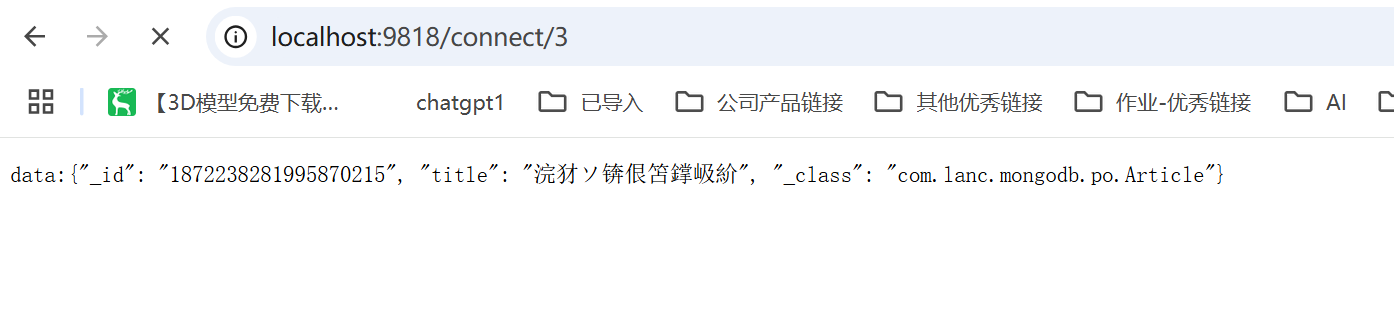
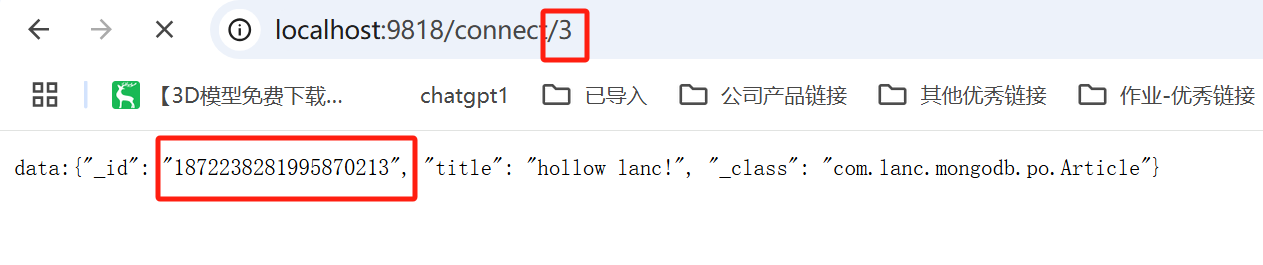
feat:添加分布式锁，保证多个节点时消息重复发送到客户端。

Changed region(s): [[0.0, 0.483, 1.0, 0.7849], [0.0, 0.2717, 1.0, 0.4226], [0.0, 0.0302, 0.4941, 0.2415]]

diff --git a/ddd-mongodb/src/main/java/com/lanc/mongodb/listener/MyDatabaseArticleChangeListener.java b/ddd-mongodb/src/main/java/com/lanc/mongodb/listener/MyDatabaseArticleChangeListener.java
@@ -5,6 +5,8 @@ import com.mongodb.client.model.changestream.ChangeStreamDocument;
 import com.mongodb.client.model.changestream.OperationType;
 import lombok.extern.slf4j.Slf4j;
 import org.bson.Document;
+import org.redisson.api.RLock;
+import org.redisson.api.RedissonClient;
 import org.springframework.beans.factory.annotation.Autowired;
 import org.springframework.data.mongodb.core.MongoTemplate;
 import org.springframework.stereotype.Component;
@@ -12,9 +14,12 @@ import org.springframework.stereotype.Component;
 import javax.annotation.PostConstruct;
 import java.util.concurrent.ExecutorService;
 import java.util.concurrent.Executors;
+import java.util.concurrent.TimeUnit;
 
 /**
  * 监听myDatabase数据库article的变化
+ *
+ * @author Administrator
  */
 @Slf4j
 @Component
@@ -25,6 +30,9 @@ public class MyDatabaseArticleChangeListener {
 
     @Autowired
     private SseManager sseManager;
+
+    @Autowired
+    private RedissonClient redisson;
 
     private final ExecutorService executorService = Executors.newSingleThreadExecutor();
 
@@ -39,27 +47,66 @@ public class MyDatabaseArticleChangeListener {
             mongoTemplate.getMongoDatabaseFactory().getMongoDatabase("myDatabase")
                     .getCollection("article")
                     .watch()
-                    .forEach((ChangeStreamDocument<Document> change) -> {
-                        OperationType operationType = change.getOperationType();
-                        Document fullDocument = change.getFullDocument();
-
-                        switch (operationType) {
-                            case INSERT:
-                                log.info("Document inserted: {}", fullDocument.toJson());
-                                sseManager.sendMessage(fullDocument.toJson());
-                                break;
-                            case UPDATE:
-                                log.info("Document updated: {}", fullDocument.toJson());
-                                break;
-                            case DELETE:
-                                log.info("Document deleted: {}", change.getDocumentKey().toJson());
-                                break;
-                            default:
-                                log.warn("Other operation detected: {}", operationType);
-                        }
-                    });
+                    .forEach(this::handle);
         } catch (Exception e) {
             log.error("Error while listening to changes in MongoDB: ", e);
+        }
+    }
+
+    private void handle(ChangeStreamDocument<Document> change) {
+        OperationType operationType = change.getOperationType();
+        Document fullDocument = change.getFullDocument();
+        switch (operationType) {
+            case INSERT:
+                log.info("Document inserted: {}", fullDocument.toJson());
+                insertHandle(fullDocument);
+                break;
+            case UPDATE:
+                log.info("Document updated: {}", fullDocument.toJson());
+                break;
+            case DELETE:
+                log.info("Document deleted: {}", change.getDocumentKey().toJson());
+                break;
+            default:
+                log.warn("Other operation detected: {}", operationType);
+        }
+    }
+
+    /**
+     * 通过分布式锁，保证多个节点同时监听时候，只发送一次SSE消息
+     *
+     * @param fullDocument 新增的文档
+     */
+    private void insertHandle(Document fullDocument) {
+        String lockKey = "lock:sse-processed:" + fullDocument.get("_id").toString();
+        RLock lock = redisson.getLock(lockKey);
+
+        try {
+            // 尝试获取分布式锁，设置锁的过期时间为 5 秒
+            boolean isLocked = lock.tryLock(1, 5, TimeUnit.SECONDS);
+            if (!isLocked) {
+                log.info("Another node is processing the message for document: {}", fullDocument.get("_id"));
+                return;
+            }
+
+            // 再次检查 Redis 是否已处理
+            String processedKey = "sse-processed:" + fullDocument.get("_id").toString();
+            if (redisson.getBucket(processedKey).isExists()) {
+                log.info("Message already processed for document: {}", fullDocument.get("_id"));
+                return;
+            }
+
+            // 标记消息已处理，并发送 SSE 消息
+            redisson.getBucket(processedKey).set("1", 10, TimeUnit.SECONDS);
+            log.info("send SSE：{}", fullDocument.toJson());
+            sseManager.sendMessage(fullDocument.toJson());
+        } catch (InterruptedException e) {
+            log.error("Failed to acquire lock for document: {}", fullDocument.get("_id"), e);
+        } finally {
+            // 释放锁
+            if (lock.isHeldByCurrentThread()) {
+                lock.unlock();
+            }
         }
     }
 }

diff --git a/local-domain/src/main/java/com/lanc/business/config/RedissonConfig.java b/local-domain/src/main/java/com/lanc/business/config/RedissonConfig.java
@@ -1,0 +1,83 @@
+package com.lanc.business.config;
+
+import lombok.Data;
+import lombok.extern.slf4j.Slf4j;
+import org.redisson.Redisson;
+import org.redisson.api.RedissonClient;
+import org.redisson.client.codec.StringCodec;
+import org.redisson.config.Config;
+import org.redisson.config.TransportMode;
+import org.springframework.boot.autoconfigure.condition.ConditionalOnProperty;
+import org.springframework.context.annotation.Bean;
+import org.springframework.context.annotation.Configuration;
+
+import javax.annotation.Resource;
+import java.util.Set;
+
+/**
+ * @author Administrator
+ */
+@Slf4j
+@Data
+@Configuration
+public class RedissonConfig {
+
+    @Resource
+    private RedissonProperties redissonProperties;
+
+    /**
+     * redisson 单机配置
+     *
+     * @return {@link RedissonClient}单机实例
+     */
+    @ConditionalOnProperty(prefix = "redisson.single", name = "enabled", havingValue = "true")
+    @Bean(destroyMethod = "shutdown", value = "singleRedissonClient")
+    public RedissonClient singleRedissonClient() {
+        log.info("正在初始化singleRedissonClient");
+        // 创建配置
+        Config config = new Config();
+        // 编码
+        config.setCodec(StringCodec.INSTANCE);
+        // 使用NIO传输模式
+        config.setTransportMode(TransportMode.NIO);
+
+        RedissonProperties.SingleRedissonConfigProperties single = redissonProperties.getSingle();
+        // 单机版服务配置
+        config.useSingleServer()
+                .setPassword(single.getPassword())
+                .setAddress(single.getAddress())
+                .setDatabase(single.getDatabase());
+
+        // 创建客户端
+        return Redisson.create(config);
+    }
+
+    /**
+     * redisson 集群配置
+     *
+     * @return {@link RedissonClient}集群实例
+     */
+    @ConditionalOnProperty(prefix = "redisson.cluster", name = "enabled", havingValue = "true")
+    @Bean(destroyMethod = "shutdown", value = "clusterRedissonClient")
+    public RedissonClient clusterRedissonClient() {
+        log.info("正在初始化clusterRedissonClient");
+        RedissonProperties.ClusterRedissonConfigProperties cluster = redissonProperties.getCluster();
+        Set<String> addresses = cluster.getAddresses();
+        if (addresses == null || addresses.isEmpty()) {
+            throw new RuntimeException("请检查redisson.cluster的配置");
+        }
+
+        Config config = new Config();
+        // 对象编码选择纯字符串编码
+        config.setCodec(StringCodec.INSTANCE);
+        config.useClusterServers()
+                // 节点地址
+                .addNodeAddress(addresses.toArray(new String[0]))
+                // 设置密码
+                .setPassword(cluster.getPassword())
+                // redis连接心跳检测，防止一段时间过后，与redis的连接断开
+                .setPingConnectionInterval(cluster.getPingConnectionInterval());
+
+        return Redisson.create(config);
+    }
+}

diff --git a/local-domain/src/main/java/com/lanc/business/config/RedissonProperties.java b/local-domain/src/main/java/com/lanc/business/config/RedissonProperties.java
@@ -1,0 +1,66 @@
+package com.lanc.business.config;
+
+import lombok.Data;
+import lombok.extern.slf4j.Slf4j;
+import org.springframework.boot.context.properties.ConfigurationProperties;
+import org.springframework.stereotype.Component;
+
+import javax.annotation.PostConstruct;
+import java.util.Set;
+
+/**
+ * @author Administrator
+ */
+@Slf4j
+@Data
+@Component
+@ConfigurationProperties(RedissonProperties.PREFIX)
+public class RedissonProperties {
+
+    public static final String PREFIX = "redisson";
+
+    private SingleRedissonConfigProperties single;
+    private ClusterRedissonConfigProperties cluster;
+
+    /**
+     * 单机redisson配置属性
+     */
+    @Data
+    public static class SingleRedissonConfigProperties {
+        private Integer database = 0;
+        private String address;
+        private String password;
+        private Boolean enabled;
+    }
+
+    /**
+     * 集群redisson配置属性
+     */
+    @Data
+    public static class ClusterRedissonConfigProperties {
+        private Set<String> addresses;
+        private String password;
+        private Integer pingConnectionInterval;
+        private Boolean enabled;
+    }
+
+    @PostConstruct
+    private void initLog() {
+        log.info("单机版初始化：{}", single);
+        log.info("集群版初始化：{}", cluster);
+        checkConfig();
+    }
+
+    private void checkConfig() {
+        if (single != null) {
+            String address = single.getAddress();
+            if (address == null) {
+                throw new RuntimeException("请检查配置属性 redisson.single.address");
+            }
+            String password = single.getPassword();
+            if (password == null) {
+                throw new RuntimeException("请检查配置属性 redisson.single.password");
+            }
+        }
+    }
+}

diff --git a/local-start/src/main/resources/mongodb-doc/README.md b/local-start/src/main/resources/mongodb-doc/README.md
@@ -1,10 +1,27 @@
 ```shell
+# 删除容器和卷
 docker-compose down
 docker volume prune
 docker volume rm root_mongo1-data root_mongo2-data root_mongo3-data
+
+# 创建目录
 mkdir mongo
 cd mongo/
 vim docker-compose.yml
+
+# 创建log和data目录
+mkdir -p /root/mongo/mongo1-logs
+mkdir -p /root/mongo/mongo1-data
+mkdir -p /root/mongo/mongo2-logs
+mkdir -p /root/mongo/mongo2-data
+mkdir -p /root/mongo/mongo3-logs
+mkdir -p /root/mongo/mongo3-data
+chmod +x /root/mongo/mongo1-logs
+chmod +x /root/mongo/mongo1-data
+chmod +x /root/mongo/mongo2-logs
+chmod +x /root/mongo/mongo2-data
+chmod +x /root/mongo/mongo3-logs
+chmod +x /root/mongo/mongo3-data
 ```
 
 docker-compose.yml
@@ -65,29 +82,62 @@ services:
 
 volumes:
   mongo1-data:
+    driver: local
+    driver_opts:
+      type: none
+      o: bind
+      device: /root/mongo/mongo1-data
   mongo1-logs:
+    driver: local
+    driver_opts:
+      type: none
+      o: bind
+      device: /root/mongo/mongo1-logs
   mongo2-data:
+    driver: local
+    driver_opts:
+      type: none
+      o: bind
+      device: /root/mongo/mongo2-data
   mongo2-logs:
+    driver: local
+    driver_opts:
+      type: none
+      o: bind
+      device: /root/mongo/mongo2-logs
   mongo3-data:
+    driver: local
+    driver_opts:
+      type: none
+      o: bind
+      device: /root/mongo/mongo3-data
   mongo3-logs:
-
+    driver: local
+    driver_opts:
+      type: none
+      o: bind
+      device: /root/mongo/mongo3-logs
 
 ```
 
 ```shell
+# 启动容器
 docker-compose up -d
 
+# 进入容器
 docker exec -it mongo1 mongosh
 
+# 初始化副本集
 rs.initiate({
     _id: "rs0",
     members: [
-        { _id: 0, host: "119.3.237.172:27017" },
-        { _id: 1, host: "119.3.237.172:27018" },
-        { _id: 2, host: "119.3.237.172:27019" }
+        { _id: 0, host: "lanc.com:27017" },
+        { _id: 1, host: "lanc.com:27018" },
+        { _id: 2, host: "lanc.com:27019" }
     ]
 })
 
+# 查看副本集状态
 rs.status()
 ```
 
@@ -97,3 +147,7 @@ rs.status()
 注意，同一个clientId同时连接会被覆盖
 ![img_2.png](img_2.png)
 ![img_3.png](img_3.png)
+多个节点测试
+![img_4.png](img_4.png)
+![img_5.png](img_5.png)
+![img_6.png](img_6.png)
